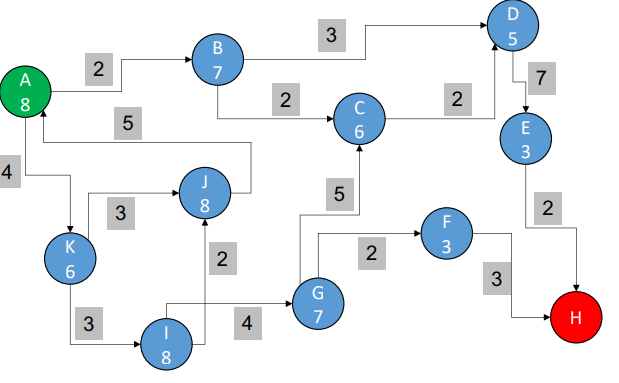
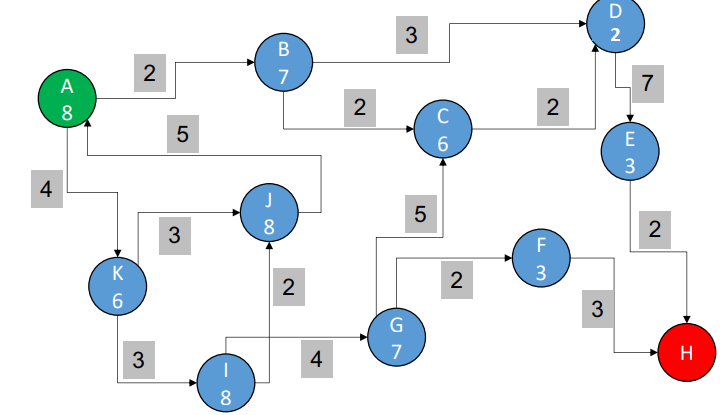
slide de machine learning

Changed region(s): [[0.0, 0.0, 1.0, 1.0], [0.0, 0.4021, 0.1228, 0.517]]

diff --git a/MachineLearning.md b/MachineLearning.md
@@ -13,7 +13,7 @@ Sendo que θ1 é o parâmetro do modelo, e x é a variável independente.
 
 *Fig.1: Comparações entre modelos*
 
-### Função de custo
+## Função de custo
 
 A função de custo recebe os parâmetros do modelo e determinar o quão bem o modelo se ajusta aos dados. É ela que
 distingue os bons modelos dos maus.
@@ -24,13 +24,13 @@ Ela é definida como:
 
 *Fig.2: Função de custo, com o θ0 e o θ1 como os parâmetros do modelo*
 
-### Machine Learning: Otimização
+## Machine Learning: Otimização
 
 Nós obtemos os melhores valores possiveis minimizando a função de custo. Para isso, temos de calcular as derivadas
 parciais da mesma, determinar os seus zeros e através da descida do gradiente, mover-se conforme a direção do gradiente
 e o seu learning rate (taxa de aprendizagem/tamanho do passo feito).
 
-#### Exercicio da descida do gradiente
+### Exercicio da descida do gradiente
 
 Considere este pequeno dataset. Use a descida do gradiente para encontrar os melhores valores para θ0 e θ1.
 
@@ -64,4 +64,34 @@ No entanto, este aluno pode ter tido um dia mau, e tirar uma nota alta no resto 
 Para evitar estes erros, temos de ajustar o nosso modelo de modo que esses casos expecificos tenham alguma
 probabilidade de acontecer, através da função *Sigmoid*.
 
-**POR ACABAR O SLIDER 27**
+Como dito anteriormente, a função de custo vai medir o quão bem o modelo se ajusta aos dados. Por exemplo, se a resposta
+de um sistema é suposto devolve '1' e o nosso modelo devolve '1' então o custo será 0.
+
+## Setup Experimental
+
+Uma das regras de ouro do machine learning é que devemos sempre dividir o nosso dataset em três partes:
+
+- **Training set**: Usado para treinar o modelo.
+- **Validation set**: Dá-nos uma avaliação imparcial do desempenho do nosso modelo sendo também usado para ajustar os
+  parâmetros do modelo.
+- **Test set**: Dá-nos uma avaliação imparcial do desempenho do nosso modelo final.
+
+![](Imagens/machine-learning-5.png)
+
+*Fig.4: Divisão do dataset*
+
+No entanto, o nosso modelo não se pode ajustar demasiado/pouco ao dataset de treino, pois isso pode levar a um:
+
+- **Overfitting**: O modelo ajusta-se demasiado ao dataset de treino, e não consegue generalizar bem para outros
+  datasets.
+- **Underfitting**: O modelo não consegue ajustar-se bem ao dataset de treino, e não consegue generalizar bem para
+  outros datasets.
+
+Para avaliar o quão bem está o nosso modelo tem:
+
+- Accuracy(exactidão): número de exemplos corretamente classificados ((TP + TN) / (TP + TN + FP + FN)).
+- Precision(precisão): o quão proximo o modelo está de classificar um exemplo como positivo (TP/(TP+FP)).
+- Recall(sensibilidade): proporção de exemplos de output que foram detetados (TP/(TP+FN)).
+
+
+# Backpropagation Algorithm

diff --git a/PesquisaEmEspaco.md b/PesquisaEmEspaco.md
@@ -237,7 +237,7 @@ a partir de um determinado estado 'g(x)' e uma função que avalia o quão perto
 Esta função é chamada **função de avaliação** sendo definida como:
 
 ```
-f(x) = g(x) + h(x)
+f(x) = g(x) + h(x), onde g(x) é o custo do caminho e h(x) é o custo do estado
 ```
 
 ### Algoritmo
@@ -264,7 +264,27 @@ Aqui contém um pseudocódigo para a pesquisa A<sup>*</sup>:
 Através do seguinte gráfico e do algoritmo A<sup>*</sup> encontra o caminho mais curto entre o nó A e o nó H.
 ![](Imagens/estados-6.png)
 
-Resolução:
+#### Solução
+Explorados : [A]
+Por explorar : [B, K]
+
+-------------------------
+como f(B) = 2 + 7 = 9 e f(B) < f(K),
+
+Explorados : [A, B]
+
+Por explorar: [D, C, K, I, J]
+
+-------------------------
+como f(D) = 2 + 3 + 2 = 7 e f(D) < f(C) < f(K) < f(I) < f(J),
+
+Explorados : [A, B, D]
+
+Por explorar: [C, K, I, J, E, G]
+
+(Continuar por aqui)
+
+Resposta : A -> B -> D -> E -> H
 
 ```
 amanhã meto prometo
@@ -355,3 +375,5 @@ Considere a seguinte árvore e o algoritmo minimax com corte alfa-beta. Aplica o
 para encontrar o valor da raiz.
 
 ![](Imagens/estados-11.png)
+
+#### Solução
